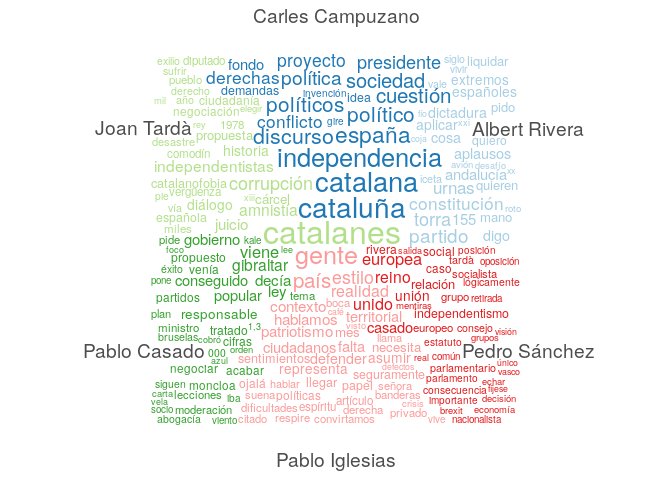
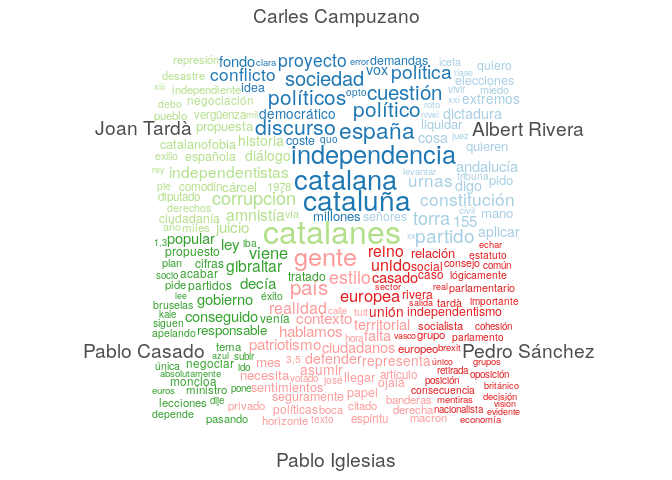
update

Changed region(s): [[0.2188, 0.0938, 0.7812, 0.9062]]

diff --git a/inst/rmd/sesion_de_control/README.md b/inst/rmd/sesion_de_control/README.md
@@ -6,7 +6,7 @@ Catalonia, Brexit, and Violence: An analysis of Pedro Sánchez's December 2018 s
 
 ![](figures/unnamed-chunk-4-1.png)
 
-On Wednesday, December 12th, Spanish President Pedro Sánchez delivered an address to the Congreso de los Diputados regarding Brexit and the political situation in Catalonia ([official transcription here](http://www.congreso.es/public_oficiales/L12/CONG/DS/PL/DSCD-12-PL-170.PDF)). The speech reflected rising tensions between pro-independence Catalans and the pro-union Sánchez government, and marked a sharp break with Sánchez's previous more conciliatory tone. The following back-and-forth between Sánchez and the leaders of other major Spanish political parties was tense.
+On Wednesday, December 12th, Spanish President Pedro Sánchez delivered an address to the Congreso de los Diputados regarding Brexit and the political situation in Catalonia ([official transcription here](http://www.congreso.es/public_oficiales/L12/CONG/DS/PL/DSCD-12-PL-170.PDF)). The speech reflected rising tensions between pro-independence Catalans and the pro-union Sánchez government, and marked a sharp break with Sánchez's previous more conciliatory tone towards Catalonia. The following back-and-forth between Sánchez and the leaders of other major Spanish political parties was tense, and marked by repeated references to violence.
 
 What follows is linguistic analysis of the speeches and counter-speeches of 6 politicians:
 
@@ -24,79 +24,51 @@ The questions
 
 2.  Are there differences in the frequency of violence-associated words between the different politicians' speeches?
 
-3.  What is the relationship between emotional polarity and references to Catalonia?
+3.  What is the relationship between emotional polarity, violence and references to Catalonia?
 
 The methods
 -----------
 
-We digitized the speeches from December 12 into a [machine-readable format](https://github.com/joebrew/vilaweb/blob/master/inst/rmd/sesion_de_control/data/transcript.csv), and then used an algorithm based on the [AFINN library](http://www2.imm.dtu.dk/pubdb/views/publication_details.php?id=6010) (a dictionary of words with assigned sentimental polarity) to classify each sentence's average emotional direction. The below is an example of how the algorithm works.
+We digitized the speeches from December 12 into a [machine-readable format](https://github.com/joebrew/vilaweb/blob/master/inst/rmd/sesion_de_control/data/transcript.csv), and then used an algorithm based on the [AFINN library](http://www2.imm.dtu.dk/pubdb/views/publication_details.php?id=6010) (a dictionary of words with assigned sentimental polarity) to classify each sentence's average emotional direction. Certain words are categorized as positive or negative, with -5 being the most negative (for example, "bastard", "slut") and +5 being the most positive (for example, "superb" (magnífico) or "thrilled" (encantado)). The majority of words do not have an emotional weight ("to act", "administration", etc.) and are classified as 0. The average of a sentence's emotionally-weighted words constitute its positivity.
+
+The below is an example of how the algorithm works on an ctual sentene from the speech. The sentence contained some negative words and some positive words, and was classified as neutral.
 
 <table style="width:100%">
 <tr>
-    <td><img src="img/sanchez.png" /></td>
     <td><img src="img/sanchez2.png" /></td>
 
 </tr>
 </table>
-          example_split  x
-    1                 y  0
-    2           lealtad  3
-    3             entre  0
-    4  administraciones  0
-    5          señorías  0
-    6              algo  0
-    7               que  0
-    8               por  0
-    9         desgracia -2
-    10               no -1
-    11               se  0
-    12        construye  0
-    13              con  0
-    14    declaraciones  0
-    15              que  0
-    16               se  0
-    17           sitúan  0
-    18            fuera  0
-    19               de  0
-    20             toda  0
-    21           lógica  0
-    22                y  0
-    23           apelan  0
-    24                a  0
-    25               la  0
-    26        violencia -3
-    27             como  0
-    28            hemos  0
-    29        escuchado  0
-    30               en  0
-    31            algún  0
-    32        dirigente  0
-    33               de  0
-    34               la  0
-    35      generalitat  0
-    36               de  0
-    37         cataluña  0
-    38              que  0
-    39           conste  0
-    40               en  0
-    41             acta  0
-    42              por  0
-    43            tanto  0
-    44           tiempo -2
-    45          diálogo  0
-    46                y  0
-    47          lealtad  3
+We ran the algorithm on the entire content of speeches, and analyzed trends in positivity. We also tabulated word frequencies and associations.
 
-![](figures/unnamed-chunk-6-1.png)![](figures/unnamed-chunk-6-2.png)
+The results
+-----------
+
+### Overall positivity
+
+![](figures/unnamed-chunk-6-1.png)
+
+### Frequency of violent words
+
+![](figures/unnamed-chunk-7-1.png)
+
+### Positivity over course of speech
+
+![](figures/unnamed-chunk-8-1.png)
+
+Lexical diversity
+=================
+
+![](figures/unnamed-chunk-9-1.png)![](figures/unnamed-chunk-9-2.png)
 
     # A tibble: 2 x 3
       catalan polarity   viol
       <lgl>      <dbl>  <dbl>
-    1 FALSE     0.0595 0.0397
-    2 TRUE     -0.150  0.0727
+    1 FALSE    -0.0199 0.0397
+    2 TRUE     -0.178  0.0727
 
     # A tibble: 2 x 2
       spanish polarity
       <lgl>      <dbl>
-    1 FALSE     0.0317
-    2 TRUE     -0.0436
+    1 FALSE    -0.0464
+    2 TRUE     -0.0752

diff --git a/README.md b/README.md
@@ -25,7 +25,9 @@ In order to reproduce the entire package, raw data will need to be downloaded fr
 
 #### 1. Download CIS data
 
-Download into `data-raw/cis` the "Barómetro Mensual - 2000-2018 all data" file from <http://analisis.cis.es/fid/fidHistorico.jsp>. This requires an account. Following log-in, go to the "Ficheros Integrados de Datos" page. Download the full data file. This will be downloaded as `FID_637_06bcee7b-ea6b-4f41-a74e-37a941519966.zip` (or similar, depending on date downloaded). Extract the data as is in the folder in which it was downloaded.
+Download into `data-raw/cis/fichero_integrado` the "Barómetro Mensual - 2000-2018 all data" file from <http://analisis.cis.es/fid/fidHistorico.jsp>. This requires an account. Following log-in, go to the "Ficheros Integrados de Datos" page. Download the full data file. This will be downloaded as `FID_637_06bcee7b-ea6b-4f41-a74e-37a941519966.zip` (or similar, depending on date downloaded). Extract the data as is in the folder in which it was downloaded.
+
+For month specific files, download from the CIS page into `data-raw/cis/monthly` into a folder with the following format: `YYYY-MM`. Extract the file .The final path of each monthly survey will resemble something like this: `'data-raw/cis/monthly/2018-10/MD3226/3226.sav'`
 
 #### 2. Download CEO data
 
@@ -34,3 +36,7 @@ Download into `data-raw/ceo` the "Matriu de dades fusionada a partir de 2014 (pr
 #### 3. Download ICPS data
 
 Download into `data-raw/icps` the "Sondeig d'opinió Catalunya 2018" data from <https://www.icps.cat/recerca/sondeigs-i-dades/sondeigs/sondeigs-d-opinio-catalunya>. This will require creating an account and password. Download both the 2017 and 2018 data into the 'data' sub-folder.
+
+#### 4. Download sentiment data
+
+Download the following into `data-raw/sentiment`: <http://www.saifmohammad.com/WebDocs/NRC-Emotion-Lexicon-v0.92-InManyLanguages-web.xlsx>
